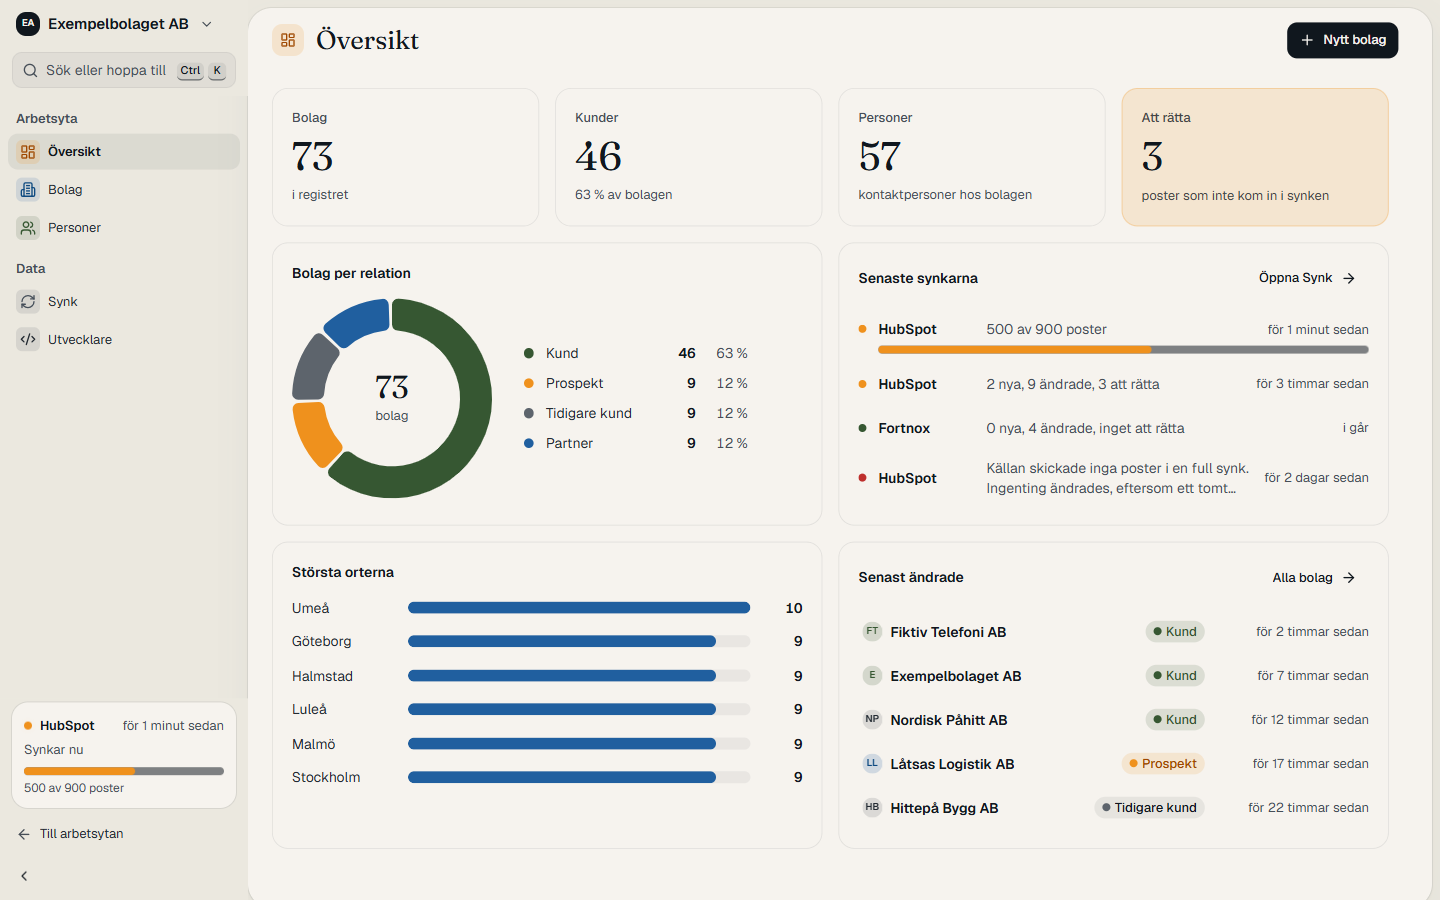
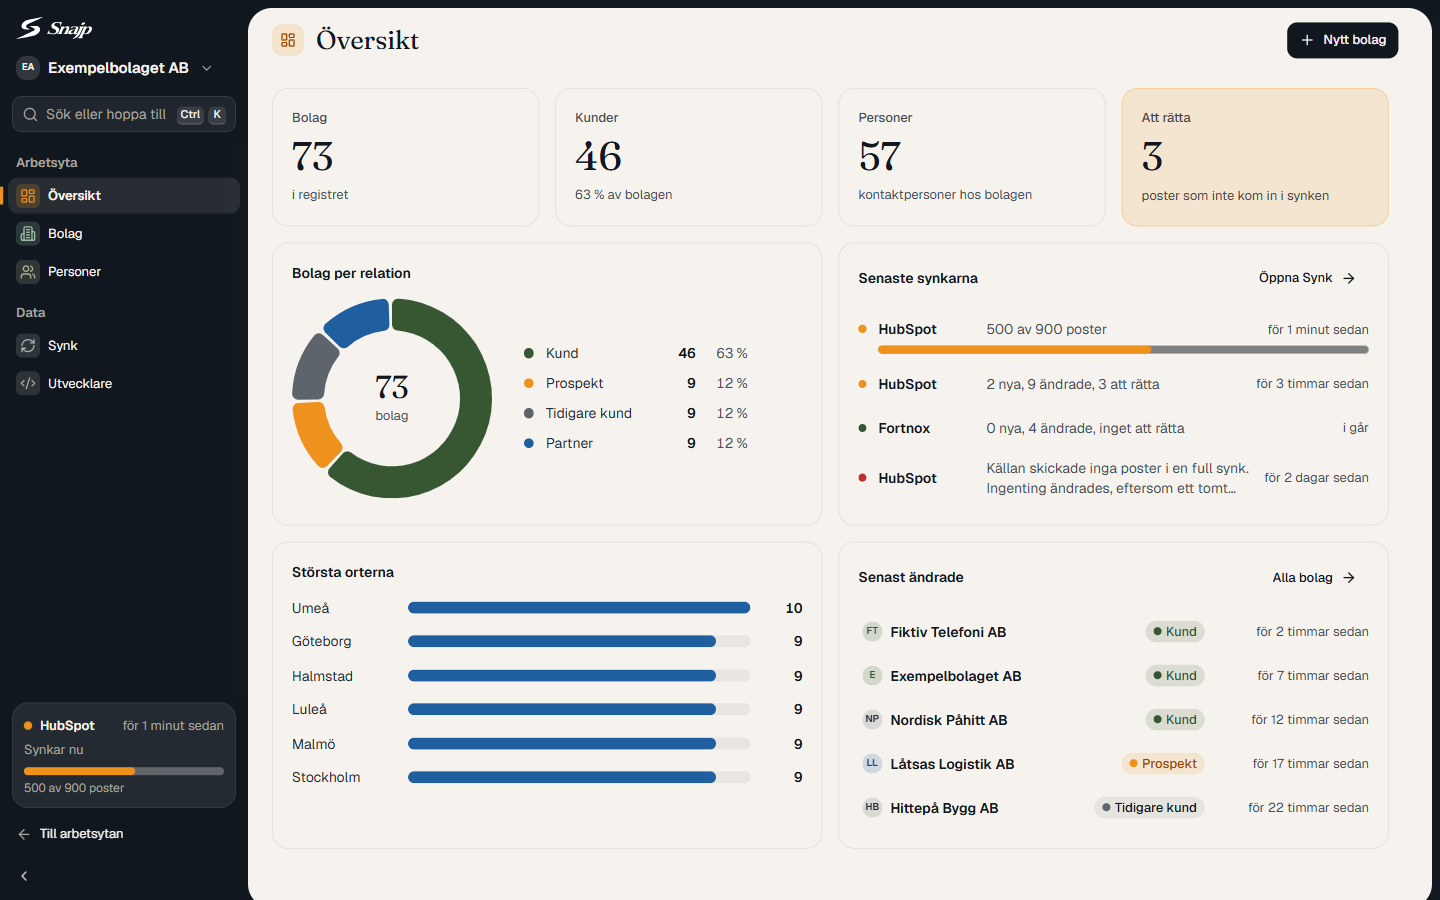
feat(crm): sidofaltet marinblatt i bada lagena, med Snajps logga och ockra for det valda
Antons bestallning 2026-11-26: sidofaltet ska ga i Snajp-blatt och behalla
fargen i morkt lage, med loggan och ockra som accent.

- Sex fasta tokens (--rail och syskonen) i app/globals.css, eftersom --ink
  byter varde i morkt lage och inte kan bara en fast farg.
- Hela tvatten bakom bladet ar marinbla, sa att det ljusa bladet ligger pa
  samma black som navigeringen. Bara en marinbla kolumn provades och foll.
- Loggan overst, arbetsytevaxlaren under. Vald menypost: platta, smal
  ockramarkor och ikonen i ockra. Mobilens toppfalt och lada ar marinbla.
- Rattat pa vagen: navigeringens bredd gallde ocksa mobilens lada, som da
  hamnade 72 px utanfor skarmen.

Verifierat: bilder i 1440 och 390 px, ljust och morkt, lasta av
huvudsessionen. All text i sidofaltet minst 5,84:1, ikoner minst 4,07:1.
Avgransad typkontroll ren, 632 invarianttester grona.

Inte gjort: sokikonen i mobilens toppfalt forsvann nar loggan kom in
(sokningen finns i ladan). Anton har inte sett sidofaltet an.

Changed region(s): [[0.0, 0.0, 1.0, 1.0]]

diff --git a/components/crm/app/crm.css b/components/crm/app/crm.css
@@ -91,15 +91,195 @@
   .astryx-app-shell .astryx-layout-content[role="main"] {
     margin: 8px 8px 8px 0;
     border-radius: 24px;
+    /* I mörkt läge ligger ett mörkt blad på marinblått: hårlinjen bär gränsen. */
     box-shadow:
-      0 0 0 1px oklch(var(--ink) / 0.07),
+      0 0 0 1px light-dark(oklch(var(--ink) / 0.07), oklch(var(--rail-text) / 0.12)),
       0 1px 2px oklch(var(--seal) / 0.06),
       0 12px 32px oklch(var(--seal) / 0.06);
   }
 }
 
+/* ---------------------------------------------------------------------------
+ * Sidofältet i marinblått (Anton 2026-11-26, DESIGN-CRM.md § Ändringar).
+ *
+ * Samma bläck i ljust och mörkt läge: fasta --rail-tokens, aldrig --ink, som
+ * blir ljust i mörkt läge. Tvätten bakom bladet är marinblå (utförande a), så att
+ * bladet med sitt rundade hörn ligger på samma yta som navigeringen.
+ *
+ * Astryx komponenter läser sina färger ur --color-*; de deklareras om här, på
+ * sidofältet, och ärvs av allt i det. Menyer och tips som Astryx lägger utanför
+ * skalet ligger utanför sidofältet och behåller bladets färger.
+ * ------------------------------------------------------------------------- */
+.astryx-app-shell,
+.astryx-app-shell .astryx-app-shell-sidenav,
+.astryx-app-shell .astryx-app-shell-header,
+.astryx-app-shell-sidenav .crm-rail,
+.astryx-app-shell-header .crm-rail,
+.astryx-mobile-nav-drawer {
+  background-color: oklch(var(--rail));
+}
+/* Mobilens toppfält: loggan till vänster, arbetsyteväxlaren bredvid. */
+.crm-rail-huvud {
+  display: flex;
+  flex-direction: column;
+  gap: 4px;
+  min-width: 0;
+}
+.crm-rail[data-mode="topbar"] .crm-rail-huvud {
+  flex-direction: row;
+  align-items: center;
+  gap: 4px;
+}
+.crm-rail[data-mode="topbar"] .crm-logga {
+  align-self: center;
+  padding-inline: 0 4px;
+}
+.crm-rail,
+.astryx-app-shell .astryx-app-shell-header {
+  --color-text-primary: oklch(var(--rail-text));
+  --color-text-secondary: oklch(var(--rail-muted));
+  --color-icon-primary: oklch(var(--rail-text));
+  --color-icon-secondary: oklch(var(--rail-muted));
+  --color-border: oklch(var(--rail-text) / 0.1);
+  --color-border-emphasized: oklch(var(--rail-text) / 0.3);
+  --color-neutral: oklch(var(--rail-text) / 0.1);
+  --color-background-gray: oklch(var(--rail-text) / 0.1);
+  --color-background-muted: oklch(var(--rail-text) / 0.1);
+  --color-overlay-hover: oklch(var(--rail-text) / 0.06);
+  --color-overlay-pressed: oklch(var(--rail-text) / 0.12);
+  --color-accent: oklch(var(--rail-ochre));
+  --focus-outline-color: oklch(var(--rail-ochre));
+  /* Ingen bakgrund här: i mobilen är navigeringen själv lådans helskärmsdialog,
+   * och ytan målas av kolumnen, toppfältet och lådan ovan. */
+  color: oklch(var(--rail-text));
+}
+/* Arbetsyteväxlarens meny öppnas som ett lager inne i sidofältet men ritas på
+ * bladets papper: där gäller temats egna färger igen. */
+.crm-rail [data-astryx-layer-root],
+.astryx-app-shell-header [data-astryx-layer-root] {
+  --color-text-primary: oklch(var(--ink));
+  --color-text-secondary: oklch(var(--ink-muted));
+  --color-icon-primary: oklch(var(--ink));
+  --color-icon-secondary: oklch(var(--ink-muted));
+  --color-border: oklch(var(--ink) / 0.1);
+  --color-border-emphasized: oklch(var(--ink) / 0.52);
+  --color-neutral: oklch(var(--ink) / 0.07);
+  --color-background-gray: oklch(var(--ink) / 0.07);
+  --color-background-muted: light-dark(oklch(var(--paper2)), oklch(var(--paper)));
+  --color-overlay-hover: oklch(var(--ink) / 0.05);
+  --color-overlay-pressed: oklch(var(--ink) / 0.1);
+  --color-accent: oklch(var(--ochre));
+  --focus-outline-color: light-dark(oklch(var(--warning)), oklch(var(--focus)));
+  color: oklch(var(--ink));
+}
+
+/* Loggan överst: Snajps vita lockup, eller bara märket när fältet är hopfällt. */
+.crm-logga {
+  display: inline-flex;
+  align-items: center;
+  align-self: flex-start;
+  height: 40px;
+  padding-inline: 8px;
+  border-radius: 10px;
+}
+.crm-logga img {
+  height: 22px;
+}
+/* Hopfällt: märket ensamt, centrerat i den smala kolumnen. */
+.crm-logga.crm-logga-mark {
+  align-self: center;
+  justify-content: center;
+  width: 36px;
+  padding-inline: 0;
+}
+.crm-logga.crm-logga-mark img {
+  height: 22px;
+  max-width: none;
+}
+.crm-logga:focus-visible {
+  outline: 2px solid oklch(var(--rail-ochre));
+  outline-offset: 0;
+}
+
+/* Menyposterna: hovring är en svag platta, vald post en lyft platta med en
+ * smal ockramarkör mot kanten. */
+.crm-rail .astryx-side-nav-item {
+  position: relative;
+  color: oklch(var(--rail-text));
+}
+@media (hover: hover) and (pointer: fine) {
+  .crm-rail .astryx-side-nav-item:hover {
+    background-color: oklch(var(--rail-text) / 0.06);
+  }
+}
+.crm-rail .astryx-side-nav-item[data-selected] {
+  background-color: oklch(var(--rail-text) / 0.1);
+  color: oklch(var(--rail-text));
+  font-weight: 600;
+}
+.crm-rail .astryx-side-nav-item[data-selected]::before {
+  content: "";
+  position: absolute;
+  inset-block: 9px;
+  inset-inline-start: -8px;
+  width: 3px;
+  border-radius: 9999px;
+  background-color: oklch(var(--rail-ochre));
+}
+
+/* Objektikonernas plattor på marinblått: tonen ljusad mot papper (ikonen), och
+ * plattan samma ljusa ton med låg alfa. Ockra har en egen fast ton. */
+.crm-rail .crm-ton-ockra {
+  --crm-ton: oklch(var(--rail-ochre));
+}
+.crm-rail .crm-ton-bla {
+  --crm-ton: color-mix(in oklch, oklch(var(--chart-blue)) 40%, oklch(var(--rail-text)));
+}
+.crm-rail .crm-ton-mossa {
+  --crm-ton: color-mix(in oklch, oklch(var(--moss)) 40%, oklch(var(--rail-text)));
+}
+.crm-rail .crm-ton-sigill {
+  --crm-ton: color-mix(in oklch, oklch(var(--seal)) 40%, oklch(var(--rail-text)));
+}
+.crm-rail .crm-ton-mineral {
+  --crm-ton: oklch(var(--rail-muted));
+}
+.crm-rail .crm-platta {
+  background-color: color-mix(in oklch, var(--crm-ton) 20%, transparent);
+  color: var(--crm-ton);
+}
+
+/* Arbetsytans avatar på marinblått: en ljus platta med initialen i papper. */
+.crm-rail .crm-arbetsyta .astryx-avatar-fallback {
+  background-color: oklch(var(--rail-text) / 0.14);
+  color: oklch(var(--rail-text));
+}
+
+/* Synkkortet nederst: lyft platta i --rail-2, förloppet i ockra. */
+.crm-synkkort {
+  background-color: oklch(var(--rail-2));
+  box-shadow: inset 0 0 0 1px oklch(var(--rail-text) / 0.08);
+  color: oklch(var(--rail-text));
+  transition: background-color 100ms var(--ease-out);
+}
+@media (hover: hover) and (pointer: fine) {
+  .crm-synkkort:hover {
+    background-color: color-mix(in oklch, oklch(var(--rail-2)) 88%, oklch(var(--rail-text)));
+  }
+}
+.crm-synkkort:focus-visible {
+  outline: 2px solid oklch(var(--rail-ochre));
+  outline-offset: 2px;
+}
+.crm-synkkort .astryx-progress-bar,
+.crm-synkkort [role="progressbar"] {
+  --color-accent: oklch(var(--rail-ochre));
+}
+
 /* 248 px utfällt (Astryx 260). Klassen sätts bara när navigeringen är utfälld. */
-.crm-nav-bred {
+/* Bara i skrivbordets kolumn: i mobilens toppfält och låda fyller navigeringen
+ * sin yta (en fast bredd sköt lådans innehåll 72 px utanför skärmen). */
+.astryx-app-shell-sidenav .crm-nav-bred {
   width: 248px;
 }
 
@@ -116,20 +296,27 @@
   padding-inline: 4px;
 }
 
-/* Sökraden i navigeringen: en platta som ser ut som ett fält och är en knapp. */
+/* Sökraden i navigeringen: en ljus platta med låg alfa som ser ut som ett fält
+ * och är en knapp. Tangenterna är ljusa plattor med text i papper. */
 .crm-sokrad {
-  background-color: oklch(var(--ink) / 0.05);
-  box-shadow: inset 0 0 0 1px oklch(var(--ink) / 0.06);
+  background-color: oklch(var(--rail-text) / 0.07);
+  box-shadow: inset 0 0 0 1px oklch(var(--rail-text) / 0.1);
   transition: background-color 100ms var(--ease-out);
 }
 @media (hover: hover) and (pointer: fine) {
   .crm-sokrad:hover {
-    background-color: oklch(var(--ink) / 0.08);
+    background-color: oklch(var(--rail-text) / 0.11);
   }
 }
 .crm-sokrad:focus-visible {
-  outline: 2px solid var(--focus-outline-color);
+  outline: 2px solid oklch(var(--rail-ochre));
   outline-offset: 2px;
+}
+.crm-sokrad .astryx-kbd-key {
+  background-color: oklch(var(--rail-text) / 0.12);
+  box-shadow: none;
+  border-color: oklch(var(--rail-text) / 0.16);
+  color: oklch(var(--rail-text));
 }
 
 /* ---------------------------------------------------------------------------

diff --git a/components/crm/app/CrmRam.tsx b/components/crm/app/CrmRam.tsx
@@ -24,6 +24,7 @@ import { SideNav, SideNavHeading, SideNavItem, SideNavSection } from "@astryxdes
 import { Text } from "@astryxdesign/core/Text";
 import { Timestamp } from "@astryxdesign/core/Timestamp";
 import { Theme } from "@astryxdesign/core/theme";
+import { Logo } from "@/components/Logo";
 import { Kommandopalett } from "@/components/crm/app/Kommandopalett";
 import { OBJEKT, Objektikon, Prick, type Objekt } from "@/components/crm/app/kit";
 import { snajpTheme } from "@/lib/crm/astryx/snajp";
@@ -87,15 +88,14 @@ function Synkkort({ bas }: Readonly<{ bas: string }>) {
   return (
     <NextLink
       href={`${bas}/synk?korning=${encodeURIComponent(senaste.id)}`}
-      className="crm-chip mx-1 mb-1 block rounded-[16px] bg-paper p-3 no-underline"
-      style={{ boxShadow: "0 0 0 1px oklch(var(--ink) / 0.09)", backgroundColor: "light-dark(oklch(var(--paper)), oklch(var(--paper2)))" }}
+      className="crm-synkkort mx-1 mb-1 block rounded-[16px] p-3 no-underline"
     >
       <span className="flex items-center gap-2">
         <Prick ton={lage.ton} pulserar={igang} />
-        <span className="min-w-0 flex-1 truncate text-[0.8125rem] font-semibold text-ink">{rubrik}</span>
+        <span className="min-w-0 flex-1 truncate text-[0.8125rem] font-semibold text-rail-text">{rubrik}</span>
         {tid ? <Timestamp value={tid} format="relative" isLive hasTooltip={false} /> : null}
       </span>
-      <span className="mt-1 block text-[0.8125rem] text-ink-muted">{lage.text}</span>
+      <span className="mt-1 block text-[0.8125rem] text-rail-muted">{lage.text}</span>
       <span className="sr-only">{text({ sv: "Öppna körningen i Synk.", en: "Open the run in Sync." })}</span>
       {igang ? (
         <span className="mt-2 block">
@@ -106,7 +106,7 @@ function Synkkort({ bas }: Readonly<{ bas: string }>) {
             value={klara(senaste)}
             max={Math.max(senaste.counts.total, 1)}
           />
-          <span className="mt-1 block text-[0.75rem] tabular-nums text-ink-muted">
+          <span className="mt-1 block text-[0.75rem] tabular-nums text-rail-muted">
             {text({
               sv: `${klara(senaste).toLocaleString("sv-SE")} av ${senaste.counts.total.toLocaleString("sv-SE")} poster`,
               en: `${klara(senaste).toLocaleString("en-GB")} of ${senaste.counts.total.toLocaleString("en-GB")} records`
@@ -186,20 +186,29 @@ export function CrmRam({
               mobileNav={{ breakpoint: "md" }}
               sideNav={
                 <SideNav
-                  className={hopfalld ? undefined : "crm-nav-bred"}
+                  className={hopfalld ? "crm-rail" : "crm-rail crm-nav-bred"}
                   // Knappens text kommer ur Astryx egna språkfiler (sv-SE och en).
                   collapsible={{ isCollapsed: hopfalld, onCollapsedChange: fallIhop }}
                   header={
-                    <SideNavHeading
-                      heading={namn}
-                      icon={<Avatar name={namn} size={24} shape="rounded" tooltip={false} className="crm-arbetsyta" />}
-                      menu={
-                        <NavHeadingMenu>
-                          <NavHeadingMenuItem label={text({ sv: "Till arbetsytan", en: "Back to workspace" })} href="/dashboard" icon={ArrowLeft} />
-                          <NavHeadingMenuItem label={text({ sv: "Inställningar", en: "Settings" })} href="/settings" icon={Settings} />
-                        </NavHeadingMenu>
-                      }
-                    />
+                    <div className="crm-rail-huvud">
+                      <NextLink
+                        href={`${bas}/oversikt`}
+                        className={hopfalld ? "crm-logga crm-logga-mark" : "crm-logga"}
+                        aria-label={text({ sv: "Snajp, till översikten", en: "Snajp, to the overview" })}
+                      >
+                        <Logo compact={hopfalld} tone="paper" />
+                      </NextLink>
+                      <SideNavHeading
+                        heading={namn}
+                        icon={<Avatar name={namn} size={24} shape="rounded" tooltip={false} className="crm-arbetsyta" />}
+                        menu={
+                          <NavHeadingMenu>
+                            <NavHeadingMenuItem label={text({ sv: "Till arbetsytan", en: "Back to workspace" })} href="/dashboard" icon={ArrowLeft} />
+                            <NavHeadingMenuItem label={text({ sv: "Inställningar", en: "Settings" })} href="/settings" icon={Settings} />
+                          </NavHeadingMenu>
+                        }
+                      />
+                    </div>
                   }
                   topContent={
                     hopfalld ? (

diff --git a/app/globals.css b/app/globals.css
@@ -74,6 +74,19 @@
      redan klarar 7.56:1 och --warning bara ger 3.44:1. */
   --warning: 0.50 0.16 64;
 
+  /* Sidofältet i CRM:et (Anton 2026-11-26: marinblått i båda lägena). Fasta
+     värden som med flit INTE står i :root[data-theme="dark"]: --ink blir ljust i
+     mörkt läge och kan därför inte bära en yta som ska vara bläck i båda.
+     --rail är --ink i ljust läge, --rail-2 dess lyfta platta (--ink2). Texten är
+     samma par som DESIGN.md mätt för den mörka railen: --rail-text (papper),
+     --rail-muted 7,29:1, --rail-subtle 4,97:1, --rail-ochre 7,56:1 mot --rail. */
+  --rail: 0.20 0.018 252;
+  --rail-2: 0.28 0.018 252;
+  --rail-text: 0.965 0.008 88;
+  --rail-muted: 0.72 0.008 88;
+  --rail-subtle: 0.62 0.008 88;
+  --rail-ochre: 0.74 0.16 64;
+
   --ease-out: cubic-bezier(0.16, 1, 0.3, 1);
   /* Alias — ~40 existing usages reference the old name. Same curve, no churn. */
   --ease-editorial: var(--ease-out);

diff --git a/tailwind.config.ts b/tailwind.config.ts
@@ -25,7 +25,13 @@ const config: Config = {
         "ink-muted": "oklch(var(--ink-muted) / <alpha-value>)",
         "ink-subtle": "oklch(var(--ink-subtle) / <alpha-value>)",
         "paper-muted": "oklch(var(--paper-muted) / <alpha-value>)",
-        "paper-subtle": "oklch(var(--paper-subtle) / <alpha-value>)"
+        "paper-subtle": "oklch(var(--paper-subtle) / <alpha-value>)",
+        rail: "oklch(var(--rail) / <alpha-value>)",
+        "rail-2": "oklch(var(--rail-2) / <alpha-value>)",
+        "rail-text": "oklch(var(--rail-text) / <alpha-value>)",
+        "rail-muted": "oklch(var(--rail-muted) / <alpha-value>)",
+        "rail-subtle": "oklch(var(--rail-subtle) / <alpha-value>)",
+        "rail-ochre": "oklch(var(--rail-ochre) / <alpha-value>)"
       },
       fontFamily: {
         // Fraunces is reachable only through `font-display`, and DESIGN.md limits

diff --git a/DESIGN.md b/DESIGN.md
@@ -227,8 +227,12 @@ mode and a tenant palette reach the CRM through the same variables as the rest o
 rail and a bare table, and Anton rejected it as generic. The CRM now takes structure and finish
 from Twenty, form from Astryx and only palette, Fraunces headings and these rules from Snajp.
 The contract is `docs/crm/DESIGN-CRM.md`. What that means against the rest of this section:
-there is NO ink rail (the navigation is light, on the `--paper2` wash, and the content is a
-raised sheet in `--paper` with a 24 px corner); radii are 6/10/16/24, controls 32/36/44 px and
+the sidebar and the wash behind the sheet are Snajp's navy in BOTH modes (Anton 2026-11-26: it
+must not turn light in dark mode, as the rail did in version 1), drawn from the fixed tokens
+`--rail`, `--rail-2`, `--rail-text`, `--rail-muted`, `--rail-subtle` and `--rail-ochre` in
+`app/globals.css`, because `--ink` changes value in dark mode and cannot carry a fixed colour;
+the Snajp logo stands at the top of the sidebar and the selected item carries an ochre marker;
+the content is a raised sheet in `--paper` with a 24 px corner, lying on the navy; radii are 6/10/16/24, controls 32/36/44 px and
 body text 14 px on desktop; a record is a chip with an avatar, a link is a pill, a relation is
 a label with a status dot; Fraunces carries the page title, the record name in its panel and
 the numerals in the key-figure cards; cards and floating surfaces have a hairline plus a soft

diff --git a/docs/crm/DESIGN-CRM.md b/docs/crm/DESIGN-CRM.md
@@ -38,6 +38,16 @@ verktygslådan utökar verktygslådan, i samma form.
 Det ersätter punkten "Railen i bläck tas bort" under Tema nedan. Resten står kvar:
 upphöjt blad, radier, chips, kort, piller, kommandopalett.
 
+**Så är det byggt (2026-11-26, väntar på Antons dom).** Tokens `--rail`, `--rail-2`,
+`--rail-text`, `--rail-muted`, `--rail-subtle` och `--rail-ochre` i `app/globals.css` är
+fasta i båda lägena. Hela tvätten bakom bladet är marinblå, så att det ljusa bladet med
+sitt rundade hörn ligger på samma bläck som navigeringen. Utförandet med bara en marinblå
+kolumn prövades och föll: en beige ram på 8 px runt bladet klippte av sidofältet. Loggan
+(`Logo tone="paper"`) står överst och leder till översikten, med arbetsyteväxlaren under.
+Vald menypost är en platta på 10 procent med en smal ockramarkör mot kanten och ikonen i
+ockra. Mobilens toppfält och låda är marinblå. Uppmätt i båda lägena: all text i
+sidofältet minst 5,84:1, ikoner och markörer minst 4,07:1. Bilder: `docs/crm/bilder/app/`.
+
 ## Antons dom och beställning (2026-11-26, ordagrant i sak)
 
 > De senaste skärmbilderna ser väldigt generiska ut, lika och nästan sämre än den

diff --git a/docs/crm/STATUS-MIGRERING.md b/docs/crm/STATUS-MIGRERING.md
@@ -12,9 +12,10 @@ Lägen: **klart** (byggt och verifierat), **pågår**, **väntar** (på kvot ell
 |---|---|---|
 | Version 2 låst som referens | klart | `DESIGN-CRM.md`, minnesanteckning, bilder i `docs/crm/bilder/app/` |
 | Antons tretton svar som beslut | klart | `docs/BESLUT.md` 2026-11-26 |
-| Sidofältet marinblått i båda lägena | pågår | Byggs 2026-11-26 |
-| Snajps logga i sidofältet | pågår | |
-| Ockra som accent | pågår | |
+| Sidofältet marinblått i båda lägena | klart | Byggt och granskat i bild 2026-11-26. Väntar på Antons dom |
+| Snajps logga i sidofältet | klart | Överst, leder till översikten. Väntar på Antons dom |
+| Ockra som accent | klart | Markör och ikon för vald menypost. Väntar på Antons dom |
+| Sökikon i mobilens toppfält | inte påbörjat | Försvann när loggan kom in. Sökningen finns i lådan |
 
 ## Fas 1: kartläggning av den nuvarande appen
 
